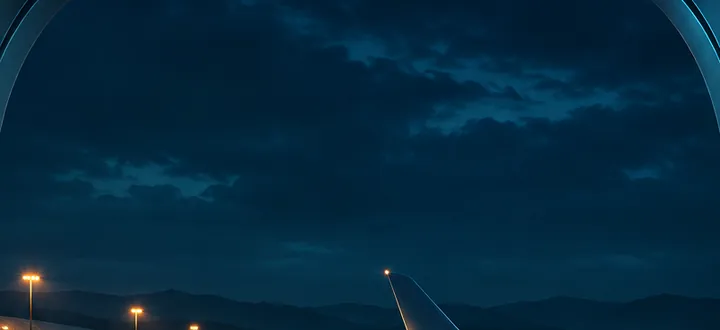
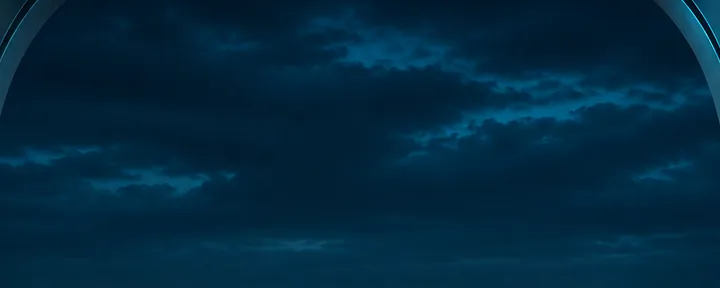
Reconstruir el despegue desde la ventanilla izquierda

diff --git a/src/takeoff.ts b/src/takeoff.ts
@@ -1,137 +1,76 @@
 import { gsap } from 'gsap';
-import groundUrl from './assets/flight-ground.webp';
 import airUrl from './assets/flight-air.webp';
+import asphaltUrl from './assets/runway-asphalt.webp';
+import { createRunway, type RunwayCamera } from './runway';
 
-const runwayStart = 1.58;
-const wheelsUp = 4.27;
-export const surveyEntry = 7.42;
+const runwayStart = 1.8;
+const wheelsUp = 4.65;
+export const surveyEntry = 8.05;
 
-const amber = { core: '#ffe0a1', glow: '255, 175, 83' };
-const cyan = { core: '#b6fffb', glow: '51, 227, 231' };
-
-// Offset and spacing in runway coordinates. The perspective divides each by depth.
-const runwayRows = [
-  { offset: -.67, spacing: 136, count: 6, shift: 53, color: amber },
-  { offset: -.29, spacing: 88, count: 8, shift: 27, color: cyan },
-  { offset: .082, spacing: 88, count: 8, shift: 7, color: cyan },
-  { offset: .54, spacing: 129, count: 6, shift: 48, color: amber },
-];
-
-function glowTexture(color: typeof amber) {
-  const texture = document.createElement('canvas');
-  texture.width = texture.height = 44;
-  const context = texture.getContext('2d');
-  if (!context) return texture;
-  const glow = context.createRadialGradient(22, 22, 0, 22, 22, 22);
-  glow.addColorStop(0, `rgba(${color.glow}, .86)`);
-  glow.addColorStop(.22, `rgba(${color.glow}, .45)`);
-  glow.addColorStop(.55, `rgba(${color.glow}, .12)`);
-  glow.addColorStop(1, `rgba(${color.glow}, 0)`);
-  context.fillStyle = glow;
-  context.fillRect(0, 0, 44, 44);
-  return texture;
-}
+const eyeLevel: RunwayCamera = { travel: 0, height: 3.3, horizon: .407, speed: 0 };
 
 export function createTakeoff(scene: HTMLElement) {
   const frame = scene.querySelector<HTMLElement>('.flight-window')!;
-  const ground = scene.querySelector<HTMLImageElement>('.flight-ground')!;
-  const distant = scene.querySelector<HTMLImageElement>('.flight-distant')!;
+  const distant = scene.querySelector<HTMLElement>('.flight-distant')!;
+  const fallback = scene.querySelector<HTMLElement>('.flight-fallback')!;
   const air = scene.querySelector<HTMLImageElement>('.flight-air')!;
   const wing = scene.querySelector<HTMLElement>('.flight-wing')!;
   const glint = scene.querySelector<HTMLElement>('.flight-glint')!;
-  const canvas = scene.querySelector<HTMLCanvasElement>('.flight-lights')!;
-  const context = canvas.getContext('2d');
-  const width = canvas.width;
-  const height = canvas.height;
-  const halo = context ? new Map([[amber, glowTexture(amber)], [cyan, glowTexture(cyan)]]) : null;
-  const motion = { travel: 0, speed: 0, climb: 0, brightness: 0 };
+  const canvas = scene.querySelector<HTMLCanvasElement>('.flight-runway')!;
+  const asphalt = new Image();
+  const camera = { ...eyeLevel };
+  let renderer: ReturnType<typeof createRunway> | undefined;
+
+  canvas.addEventListener('webglcontextlost', () => {
+    renderer = null;
+    scene.dataset.renderer = 'photo';
+  });
 
   function preload() {
-    if (ground.hasAttribute('src')) return;
-    ground.src = groundUrl;
-    distant.src = groundUrl;
+    if (air.hasAttribute('src')) return;
     air.src = airUrl;
+    asphalt.src = asphaltUrl;
   }
 
-  function drawLights() {
-    if (!context || !halo) return;
-    context.clearRect(0, 0, width, height);
-    if (motion.brightness < .01) return;
-
-    const horizon = .422 + motion.climb * .205;
-    const altitude = .457 + motion.climb * .22;
-    for (const row of runwayRows) {
-      const length = row.spacing * row.count;
-      const advance = motion.travel % length;
-      context.strokeStyle = row.color.core;
-      context.fillStyle = row.color.core;
-      for (let i = 0; i < row.count; i++) {
-        const z = 12 + (i * row.spacing + row.shift - advance + length) % length;
-        const depth = 79 / (79 + z);
-        const y = (horizon + altitude * depth) * height;
-        if (y > height * .678) continue;
-        const x = (.493 + row.offset * depth) * width;
-        const tailDepth = 79 / (79 + z + 4 + motion.speed * 57);
-        const tailX = (.493 + row.offset * tailDepth) * width;
-        const tailY = (horizon + altitude * tailDepth) * height;
-        const brightness = motion.brightness * Math.min(.9, depth * 2.8);
-        const radius = .65 + depth * 5;
-
-        context.globalAlpha = brightness * .29 * (1 - motion.climb);
-        context.lineWidth = Math.max(.5, radius * .75);
-        context.beginPath();
-        context.moveTo(x, y + 3);
-        context.lineTo(x + (x - tailX) * .22, y + 5 + depth * 44);
-        context.stroke();
-
-        context.globalAlpha = brightness;
-        context.drawImage(halo.get(row.color)!, x - radius * 3, y - radius * 3, radius * 6, radius * 6);
-        context.lineWidth = Math.max(.65, radius * .75);
-        context.beginPath();
-        context.moveTo(tailX, tailY);
-        context.lineTo(x, y);
-        context.stroke();
-        context.fillRect(x - radius * .34, y - radius * .34, radius * .68, radius * .68);
-      }
-    }
-    context.globalAlpha = 1;
+  function drawRunway() {
+    renderer?.draw(camera);
   }
 
   function addTo(timeline: gsap.core.Timeline, onRunway: () => void, onClimb: () => void) {
     preload();
+    if (renderer === undefined) renderer = createRunway(canvas, asphalt);
+    scene.dataset.renderer = renderer ? 'webgl' : 'photo';
     scene.hidden = false;
+    drawRunway();
+
     timeline
-      .fromTo(scene, { opacity: 0 }, { opacity: 1, duration: .68, ease: 'sine.inOut' }, 1.17)
-      .fromTo(frame, { scale: 1, y: 0 }, { scale: 1.14, y: 94, duration: .94, ease: 'power2.inOut' }, 1.18)
+      .fromTo(scene, { opacity: 0 }, { opacity: 1, duration: .78, ease: 'sine.inOut' }, 1.02)
+      .fromTo(frame, { scale: 1, y: 0 }, { scale: 1.14, y: 90, duration: .79, ease: 'power2.inOut' }, 1.0)
       .call(onRunway, [], runwayStart)
-      .to(motion, { travel: 475, speed: 1, duration: 2.69, ease: 'power2.in', onUpdate: drawLights }, runwayStart)
-      .to(motion, { brightness: .93, duration: .96, ease: 'sine.in' }, runwayStart)
-      .to(ground, { scale: 1.135, xPercent: -2.6, yPercent: 2, duration: 2.69, ease: 'power2.in' }, runwayStart)
-      .to(distant, { scale: 1.028, xPercent: -.5, duration: 2.69, ease: 'sine.inOut' }, runwayStart)
-      .to(wing, { rotation: -.8, yPercent: .5, duration: 2.35, ease: 'sine.inOut' }, runwayStart + .22)
-      .to(glint, { xPercent: 28, opacity: .62, duration: 1.22, ease: 'power1.inOut' }, 2.87)
+      .to(camera, { travel: 111, speed: 1, duration: 2.85, ease: 'power1.in', onUpdate: drawRunway }, runwayStart)
+      .to(distant, { xPercent: -1.3, scale: 1.045, duration: 2.85, ease: 'power1.in' }, runwayStart)
+      .to(fallback, { xPercent: -5.5, scale: 1.135, duration: 2.85, ease: 'power2.in' }, runwayStart)
+      .to(glint, { opacity: .50, duration: 1.18, ease: 'sine.inOut' }, 3.12)
       .call(onClimb, [], wheelsUp)
-      .to(motion, {
-        travel: 845, speed: .31, climb: 1, brightness: 0,
-        duration: 2.81, ease: 'sine.inOut', onUpdate: drawLights,
+      .to(camera, {
+        height: 32, horizon: .565, speed: .65, duration: 3.05, ease: 'sine.inOut',
       }, wheelsUp)
-      .to(ground, { yPercent: 34, xPercent: -5, scale: .8, rotation: -4.4, duration: 2.53, ease: 'sine.inOut' }, wheelsUp)
-      .to(ground, { '--terrain-cut': '29%', duration: .84, ease: 'power1.out' }, wheelsUp)
-      .to(distant, { yPercent: 23, xPercent: -2.3, scale: .95, rotation: -2.1, duration: 2.65, ease: 'sine.inOut' }, wheelsUp)
-      .to(wing, { rotation: 4.5, yPercent: -1.7, duration: .91, ease: 'sine.inOut' }, wheelsUp)
-      .to(wing, { rotation: 2.2, yPercent: -.9, duration: 1.58, ease: 'sine.inOut' }, wheelsUp + .91)
-      .to(glint, { xPercent: 51, opacity: .24, duration: 2.5, ease: 'sine.inOut' }, wheelsUp + .12)
-      .fromTo(air, { scale: 1.135, yPercent: -4 }, { scale: 1.02, yPercent: 1, duration: 2.8, ease: 'sine.inOut' }, wheelsUp)
-      .to(ground, { opacity: 0, duration: 1.12, ease: 'sine.inOut' }, 5.72)
-      .to(distant, { opacity: 0, duration: 1.36, ease: 'sine.inOut' }, 4.83);
+      .to(camera, { travel: 340, duration: 3.05, ease: 'none', onUpdate: drawRunway }, wheelsUp)
+      .to(distant, { xPercent: -3.3, yPercent: 9, opacity: 0, duration: 1.92, ease: 'sine.inOut' }, wheelsUp)
+      .to(fallback, { xPercent: -9.2, yPercent: 18, opacity: 0, duration: 2.32, ease: 'sine.inOut' }, wheelsUp)
+      .to(canvas, { opacity: 0, duration: 1.36, ease: 'sine.inOut' }, 5.78)
+      .fromTo(air, { scale: 1.14, xPercent: 2.8, yPercent: -3 }, {
+        scale: 1.065, xPercent: -4.1, yPercent: 2, duration: 3.75, ease: 'sine.out',
+      }, wheelsUp)
+      .to(wing, { rotation: 1.6, yPercent: -.8, duration: 1.19, ease: 'sine.inOut' }, wheelsUp)
+      .to(wing, { rotation: .75, yPercent: -.45, duration: 1.34, ease: 'sine.inOut' }, wheelsUp + 1.19)
+      .to(glint, { opacity: .24, duration: 2.15, ease: 'sine.inOut' }, wheelsUp + .1);
   }
 
   function clear() {
     scene.hidden = true;
-    Object.assign(motion, { travel: 0, speed: 0, climb: 0, brightness: 0 });
-    context?.clearRect(0, 0, width, height);
-    gsap.set([scene, frame, ground, distant, air, wing, glint], { clearProps: 'transform,opacity' });
-    ground.style.removeProperty('--terrain-cut');
+    Object.assign(camera, eyeLevel);
+    gsap.set([scene, frame, distant, fallback, canvas, air, wing, glint], { clearProps: 'transform,opacity' });
   }
 
   return { preload, addTo, clear };

diff --git a/src/runway.ts b/src/runway.ts
@@ -1,0 +1,147 @@
+export interface RunwayCamera {
+  travel: number;
+  height: number;
+  horizon: number;
+  speed: number;
+}
+
+// Camera looks perpendicular to the aircraft's travel. Surface paint, lamps,
+// and puddles all use the same X (forward) and Z (out the window) coordinates.
+const vertex = `
+attribute vec2 aPoint;
+void main() { gl_Position = vec4(aPoint, 0.0, 1.0); }
+`;
+
+const fragment = `
+#ifdef GL_FRAGMENT_PRECISION_HIGH
+precision highp float;
+#else
+precision mediump float;
+#endif
+uniform vec2 uSize;
+uniform vec4 uCamera;
+uniform sampler2D uAsphalt;
+
+float ridge(float distance, float width, float softness) {
+  return 1.0 - smoothstep(width, width + softness, abs(distance));
+}
+
+vec3 lampRow(vec2 world, float screenY, float z, float spacing, float offset, vec3 tint) {
+  float across = mod(world.x + offset + spacing * .5, spacing) - spacing * .5;
+  float lampY = uCamera.z + .81 * uCamera.y / z;
+  float dx = across * uSize.y / z;
+  float dy = (screenY - lampY) * uSize.y;
+  float stretch = 1.0 + uCamera.w * 5.0 * (18.0 / z);
+  float core = exp(-dot(vec2(dx / stretch, dy * 1.55), vec2(dx / stretch, dy * 1.55)) * .39);
+  float glow = exp(-length(vec2(dx / (2.0 + stretch), dy * .72)) * .34);
+  float ripple = .5 + .5 * sin(world.y * 43.1 + world.x * 6.3);
+  float puddle = step(1.0, dy) * exp(-dy / (2.6 + 255.0 / z)) *
+    exp(-abs(dx) * .83) * (.19 + ripple * .57);
+  float range = clamp(22.0 / z, .19, 1.0);
+  return tint * (core * .88 + glow * .20 + puddle * .42) * range;
+}
+
+void main() {
+  vec2 uv = gl_FragCoord.xy / uSize;
+  float y = 1.0 - uv.y;
+  float below = y - uCamera.z;
+  if (below <= .001) { gl_FragColor = vec4(0.0); return; }
+  float z = max(4.0, .81 * uCamera.y / below);
+  float x = uCamera.x + (uv.x - .5) * (uSize.x / uSize.y) * z;
+  vec2 world = vec2(x, z);
+  float aa = clamp(.0018 * z * z / uCamera.y, .06, 3.0);
+  vec3 road = texture2D(uAsphalt, world * .135).rgb;
+  float broad = texture2D(uAsphalt, world * .024 + vec2(.19, .48)).r;
+  float surface = smoothstep(6.0, 8.0, z) * (1.0 - smoothstep(60.0, 64.0, z));
+  vec3 grass = vec3(.024, .055, .064) * (.78 + broad);
+  vec3 pavement = vec3(.034, .075, .11) + road * .17 + broad * vec3(.023, .055, .064);
+  vec3 color = mix(grass, pavement, surface);
+
+  float verge = max(ridge(z - 11.3, .095, aa), ridge(z - 57.3, .095, aa));
+  float stripeX = 1.0 - smoothstep(6.3, 6.9, abs(mod(x + 20.0, 40.0) - 20.0));
+  float center = stripeX * ridge(z - 33.1, .20, aa);
+  float illuminated = .55 + broad * .75;
+  color += verge * vec3(.25, .28, .25) * illuminated;
+  color += center * vec3(.28, .33, .32) * illuminated;
+  color += ridge(z - 7.7, .10, aa) * vec3(.25, .13, .039);
+
+  color += lampRow(world, y, 14.0, 20.0, 9.0, vec3(.32, .87, 1.0));
+  color += lampRow(world, y, 55.2, 26.0, 2.0, vec3(.33, .76, 1.0));
+  color += lampRow(world, y, 82.0, 32.0, 12.0, vec3(1.0, .67, .28));
+
+  float haze = smoothstep(48.0, 470.0, z);
+  color = mix(color, vec3(.023, .077, .11), haze * .82);
+  float opacity = smoothstep(.009, .045, below);
+  gl_FragColor = vec4(color, opacity);
+}
+`;
+
+function compile(gl: WebGLRenderingContext, type: number, source: string) {
+  const shader = gl.createShader(type);
+  if (!shader) return null;
+  gl.shaderSource(shader, source);
+  gl.compileShader(shader);
+  if (gl.getShaderParameter(shader, gl.COMPILE_STATUS)) return shader;
+  gl.deleteShader(shader);
+  return null;
+}
+
+export function createRunway(canvas: HTMLCanvasElement, asphalt: HTMLImageElement) {
+  const gl = canvas.getContext('webgl', {
+    alpha: true, premultipliedAlpha: false, antialias: false,
+    depth: false, stencil: false, powerPreference: 'low-power',
+  });
+  if (!gl) return null;
+
+  const vert = compile(gl, gl.VERTEX_SHADER, vertex);
+  const frag = compile(gl, gl.FRAGMENT_SHADER, fragment);
+  if (!vert || !frag) return null;
+
+  const program = gl.createProgram();
+  if (!program) return null;
+  gl.attachShader(program, vert);
+  gl.attachShader(program, frag);
+  gl.linkProgram(program);
+  gl.deleteShader(vert);
+  gl.deleteShader(frag);
+  if (!gl.getProgramParameter(program, gl.LINK_STATUS)) {
+    gl.deleteProgram(program);
+    return null;
+  }
+  gl.useProgram(program);
+  const buffer = gl.createBuffer();
+  gl.bindBuffer(gl.ARRAY_BUFFER, buffer);
+  gl.bufferData(gl.ARRAY_BUFFER, new Float32Array([-1, -1, 3, -1, -1, 3]), gl.STATIC_DRAW);
+  const point = gl.getAttribLocation(program, 'aPoint');
+  gl.enableVertexAttribArray(point);
+  gl.vertexAttribPointer(point, 2, gl.FLOAT, false, 0, 0);
+
+  const texture = gl.createTexture();
+  gl.bindTexture(gl.TEXTURE_2D, texture);
+  gl.texImage2D(gl.TEXTURE_2D, 0, gl.RGBA, 1, 1, 0, gl.RGBA, gl.UNSIGNED_BYTE,
+    new Uint8Array([49, 58, 63, 255]));
+  gl.texParameteri(gl.TEXTURE_2D, gl.TEXTURE_MIN_FILTER, gl.LINEAR_MIPMAP_LINEAR);
+  gl.texParameteri(gl.TEXTURE_2D, gl.TEXTURE_MAG_FILTER, gl.LINEAR);
+  gl.generateMipmap(gl.TEXTURE_2D);
+  function loadTexture() {
+    if (!gl || gl.isContextLost() || !asphalt.naturalWidth) return;
+    gl.bindTexture(gl.TEXTURE_2D, texture);
+    gl.texImage2D(gl.TEXTURE_2D, 0, gl.RGBA, gl.RGBA, gl.UNSIGNED_BYTE, asphalt);
+    gl.generateMipmap(gl.TEXTURE_2D);
+  }
+  if (asphalt.complete) loadTexture();
+  else asphalt.addEventListener('load', loadTexture, { once: true });
+
+  gl.uniform1i(gl.getUniformLocation(program, 'uAsphalt'), 0);
+  gl.uniform2f(gl.getUniformLocation(program, 'uSize'), canvas.width, canvas.height);
+  gl.viewport(0, 0, canvas.width, canvas.height);
+  const cameraLocation = gl.getUniformLocation(program, 'uCamera');
+
+  return {
+    draw(camera: RunwayCamera) {
+      if (gl.isContextLost()) return;
+      gl.uniform4f(cameraLocation, camera.travel, camera.height, camera.horizon, camera.speed);
+      gl.drawArrays(gl.TRIANGLES, 0, 3);
+    },
+  };
+}

diff --git a/index.html b/index.html
@@ -16,7 +16,7 @@
         <path d="M.207 .095C.31 .118 .688 .118 .793 .095C.874 .119 .912 .213 .913 .394C.913 .519 .885 .602 .787 .636C.743 .654 .699 .657 .641 .657H.359C.266 .657 .204 .642 .162 .609C.104 .565 .092 .494 .092 .396C.092 .225 .122 .136 .207 .095Z"/>
       </clipPath>
       <clipPath id="flight-wing" clipPathUnits="objectBoundingBox">
-        <path d="M.526 .345C.543 .344 .552 .347 .564 .357L.615 .398C.635 .41 .681 .414 .714 .417L.918 .435V.63L.801 .586L.777 .574L.704 .567L.698 .552L.7 .541L.776 .522L.619 .505L.617 .49L.685 .475L.606 .439L.554 .411Z"/>
+        <path d="M.306 .402C.328 .402 .348 .408 .363 .417C.413 .433 .462 .438 .546 .449C.656 .466 .78 .483 .902 .498L.93 .5V.662H.637L.686 .638L.696 .627L.691 .598L.643 .571L.543 .56L.488 .554L.484 .545L.486 .539L.549 .523L.443 .515L.426 .508L.425 .499L.479 .488L.416 .483L.398 .479L.397 .472L.437 .465L.402 .45L.371 .438L.346 .423L.329 .412Z"/>
       </clipPath>
     </defs>
     <symbol id="plane" viewBox="0 0 24 24"><path fill="currentColor" d="M12 1.4c1 0 1.7.9 1.7 2v6.5l8.2 5v2.3l-8.2-2.7v5.2l2.8 1.9v1.5L12 22l-4.5 1.1v-1.5l2.8-1.9v-5.2l-8.2 2.7v-2.3l8.2-5V3.4c0-1.1.7-2 1.7-2Z"/></symbol>
@@ -42,9 +42,9 @@
           <img class="flight-frame" src="./src/assets/runway.webp" alt="" width="840" height="1132" decoding="async">
           <div class="flight-glass">
             <img class="flight-air" id="flight-air" alt="" decoding="async" fetchpriority="low">
-            <img class="flight-ground" id="flight-ground" alt="" decoding="async" fetchpriority="low">
-            <img class="flight-distant" id="flight-distant" alt="" decoding="async" fetchpriority="low">
-            <canvas class="flight-lights" id="flight-lights" width="540" height="728"></canvas>
+            <img class="flight-fallback" src="./src/assets/runway.webp" alt="" decoding="async">
+            <img class="flight-distant" src="./src/assets/runway.webp" alt="" decoding="async">
+            <canvas class="flight-runway" width="480" height="648"></canvas>
             <img class="flight-wing" id="flight-wing-photo" src="./src/assets/runway.webp" alt="" width="840" height="1132" decoding="async">
             <div class="flight-glint" id="flight-glint"></div>
           </div>

diff --git a/src/style.css b/src/style.css
@@ -140,7 +140,7 @@ svg { display: block; width: 1em; height: 1em; }
   aspect-ratio: 840 / 1132;
   transform-origin: 50% 39%;
 }
-.flight-window :where(img), .flight-glass, .flight-lights, .flight-glint {
+.flight-window :where(img), .flight-glass, .flight-runway, .flight-glint {
   display: block;
   position: absolute;
   inset: 0;
@@ -154,17 +154,13 @@ svg { display: block; width: 1em; height: 1em; }
   background: #0a2031 url('./assets/cabin-sky.webp') center top / cover no-repeat;
   transform-origin: 50% 40%;
 }
-.flight-ground, .flight-distant {
-  background: url('./assets/runway.webp') center / 100% 100% no-repeat;
+.flight-distant, .flight-fallback {
   transform-origin: 50% 42%;
   clip-path: url(#flight-glass);
 }
-.flight-ground {
-  --terrain-cut: -8%;
-  mask-image: linear-gradient(transparent var(--terrain-cut), #000 calc(var(--terrain-cut) + 8%));
-}
-.flight-distant { mask-image: linear-gradient(transparent 4%, #000 14% 33%, transparent 40%); }
-.flight-lights { mix-blend-mode: screen; }
+.flight-distant { mask-image: linear-gradient(#000 37%, transparent 42%); }
+.flight-scene[data-renderer="webgl"] .flight-fallback,
+.flight-scene[data-renderer="photo"] :is(.flight-runway, .flight-distant, .flight-wing) { display: none; }
 .flight-wing {
   clip-path: url(#flight-wing);
   transform-origin: 92% 44%;
